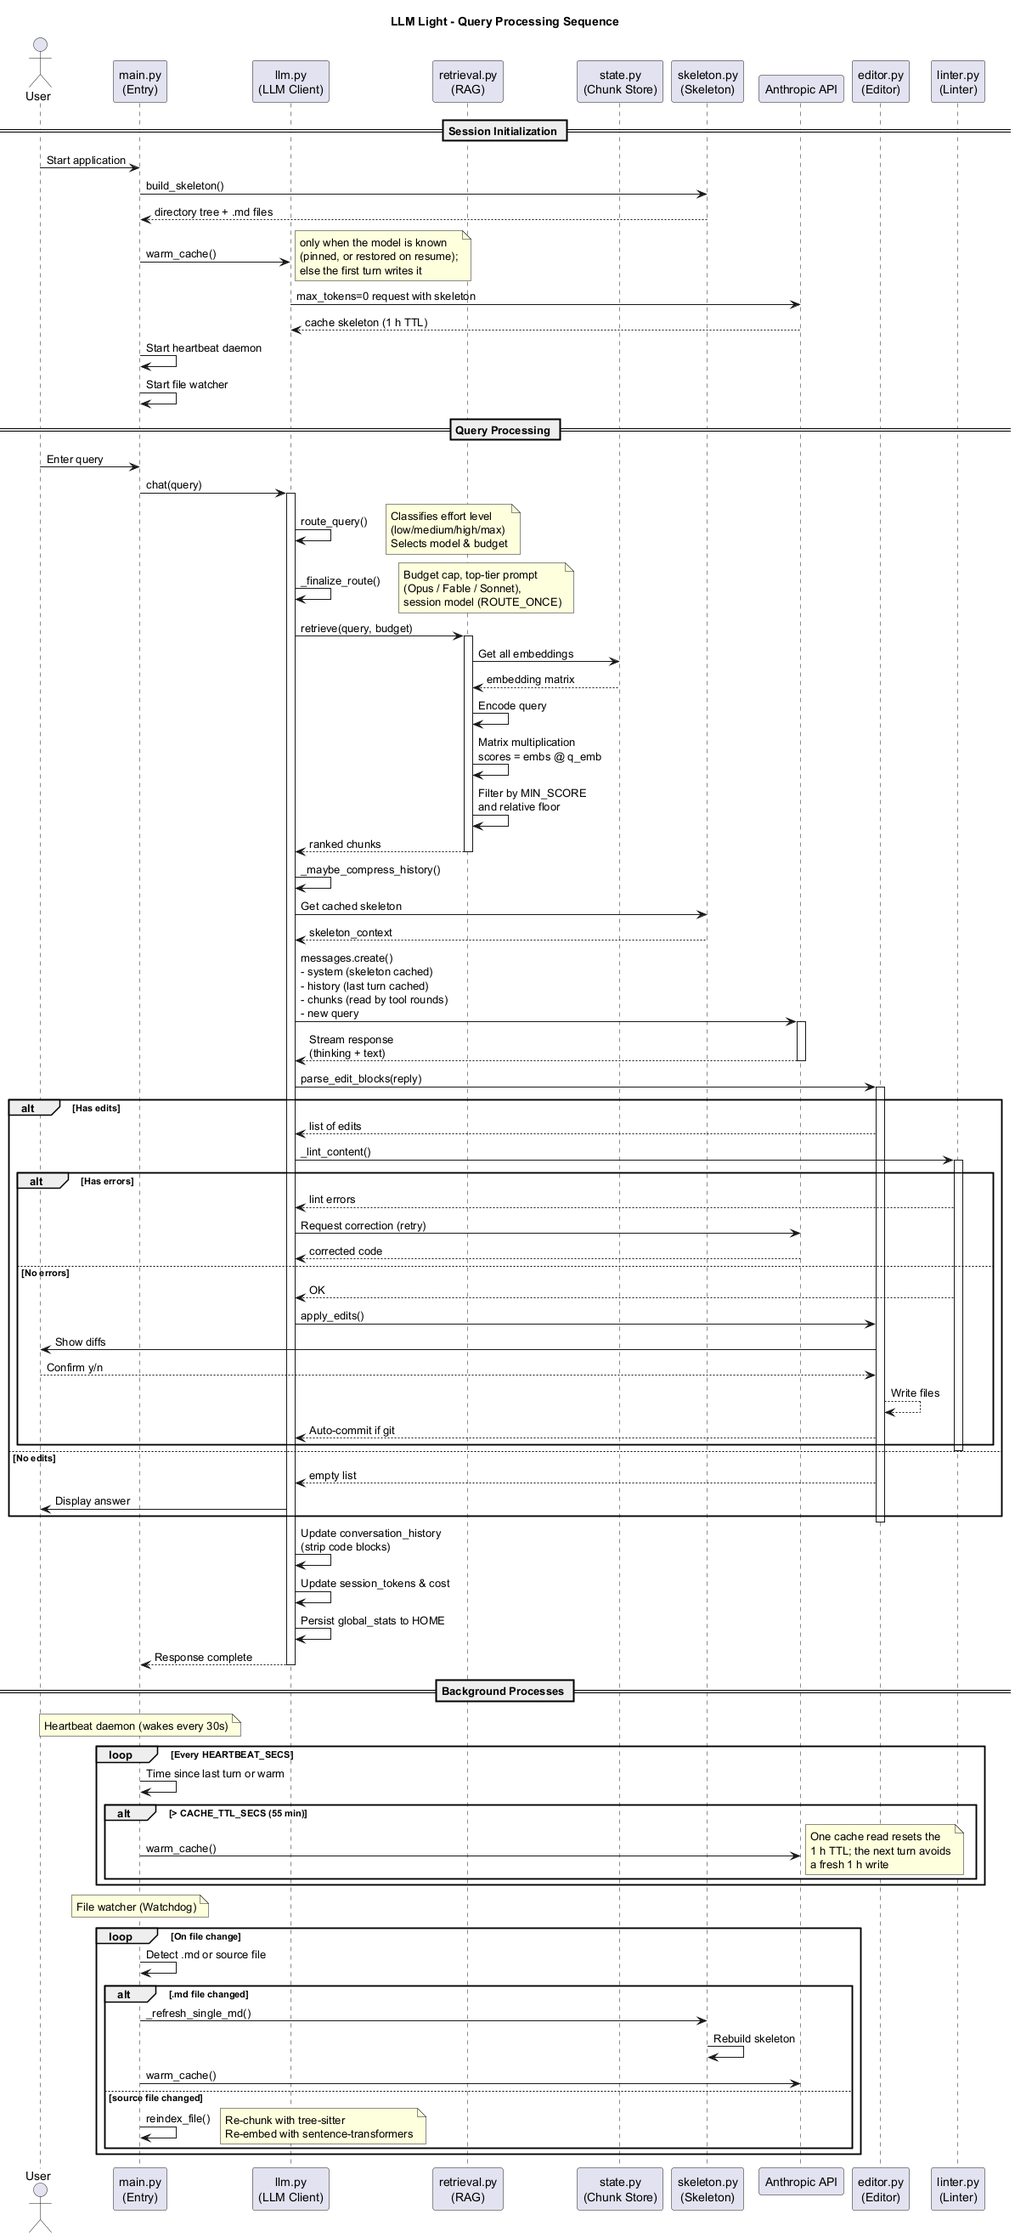
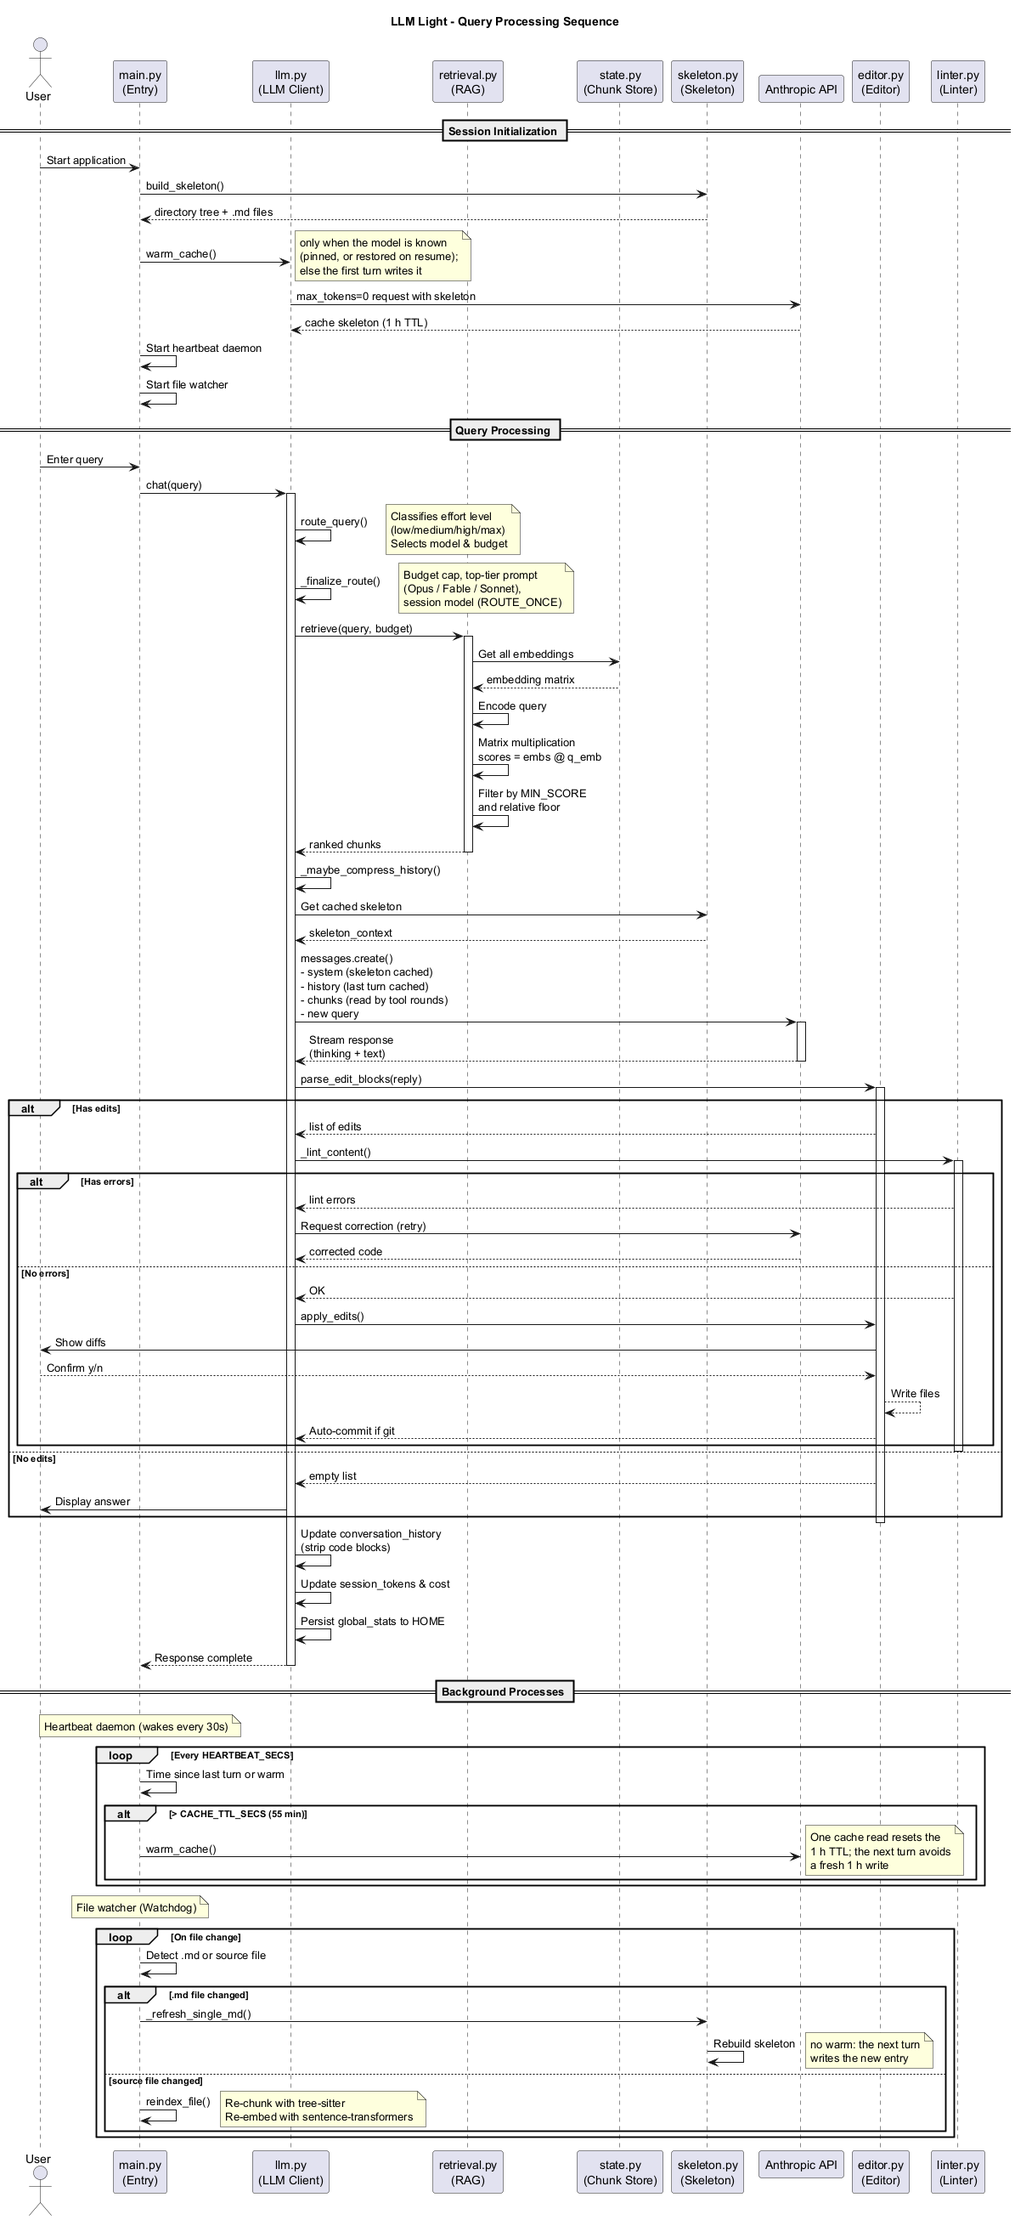
Stop warming the cache on file-watcher skeleton changes
refresh_skeleton_only() and refresh_md_file() called warm_cache() after
every added, deleted or renamed file and every .md change. That warm is
never cheaper than leaving the write to the next turn: warm then turn is
one 1-hour write plus a read, the turn alone is the write. Each further
change before that turn was another full 1-hour write of the 16.8K-token
prefix, and a change that leaves the skeleton text as it was (an editor
saving through a rename) was a read.

Verified: TestWatcherSendsNoWarm failed first (one request per refresh),
also when run after TestHeartbeatWarmsCache, whose leaked mock (#139)
would otherwise hide it, and passes now.
benchmark_cache_warming.py gains --changes N: with 3 changes between two
questions prefix cost is -50% on Sonnet ($0.2711 to $0.1347) and Opus
($0.5423 to $0.2695), with 1 change -1%, and no scenario costs more. The
trade is that the turn after a change waits for the prefill.

test_background_cache_warms_are_quiet pinned quiet warms on these paths;
it now pins that they send none. Quiet heartbeat warms stay covered by
TestHeartbeatWarmsCache.

Docs: query-flow (text and diagram, re-rendered), routing, BENCHMARKS
section 2d, TOKEN-SAVINGS.

diff --git a/tests/benchmarks/benchmark_cache_warming.py b/tests/benchmarks/benchmark_cache_warming.py
@@ -12,8 +12,10 @@ warm that a turn never reads shows up as extra cost, and an entry the heartbeat
 let expire shows up as a turn that writes again.
 
 Scenario per row: start the session (startup warm), ask one question on the
-opening model at minute 1, stay idle for --idle hours with the heartbeat
-running, then ask a second question on the same model. Rows:
+opening model at minute 1, let the file watcher rebuild the skeleton
+--changes times (a file added, deleted or renamed; each is a new prefix), stay
+idle for --idle hours with the heartbeat running, then ask a second question on
+the same model. Rows:
 
   routed, opens on <model>   ROUTE_ONCE session, first question routes there
   pinned <model>             --model pins it; no routing
@@ -24,6 +26,7 @@ cost model of the warming policy, not a live measurement.
 
     python tests/benchmarks/benchmark_cache_warming.py
     python tests/benchmarks/benchmark_cache_warming.py --idle 8
+    python tests/benchmarks/benchmark_cache_warming.py --idle 0 --changes 3
 
 Not collected by pytest. Run from the repo root. No API key, no network.
 """
@@ -85,11 +88,12 @@ class FakeCache:
 
     def use(self, model, kind):
         p = config.MODEL_PRICES[model]
-        alive = model in self.used and self.clock.now - self.used[model] < TTL
+        key = (model, state.skeleton_context)   # a changed skeleton is a new prefix
+        alive = key in self.used and self.clock.now - self.used[key] < TTL
         rate = p["read"] if alive else p["write_1h"]
         self.cost[kind] += self.prefix * rate / 1e6
         self.calls[kind] += 1
-        self.used[model] = self.clock.now
+        self.used[key] = self.clock.now
 
     def create(self, **kwargs):           # client.messages.create, for warms
         self.use(kwargs["model"], "warm")
@@ -98,19 +102,23 @@ class FakeCache:
             cache_read_input_tokens=0, cache_creation={}))
 
 
-def run(opener, pinned, idle_hours, prefix):
+def run(opener, pinned, idle_hours, prefix, changes=0):
     clock = Clock()
     cache = FakeCache(clock, prefix)
     client = SimpleNamespace(messages=SimpleNamespace(create=cache.create))
-    saved = (state.stop_event, state.last_interaction, state.session_model, state.pinned_model)
+    saved = (state.stop_event, state.last_interaction, state.session_model, state.pinned_model,
+             state.skeleton_context)
+    trees = iter(f"skeleton v{i}" for i in range(1, changes + 1))
     try:
+        state.skeleton_context = "skeleton v0"
         state.stop_event = clock
         state.session_model, state.pinned_model = None, pinned
         with patch("time.time", clock.time), \
              patch.object(claude, "client", client), \
              patch.object(claude, "_accumulate_usage", lambda *a, **k: None), \
              patch.object(claude, "calculate_cost", lambda *a, **k: 0.0), \
-             patch("llm_light.config.ROUTE_ONCE", True):
+             patch("llm_light.config.ROUTE_ONCE", True), \
+             patch.object(llm, "_refresh_tree_only", lambda: next(trees)):
             state.last_interaction = clock.now
             llm.warm_cache(quiet=True)                    # startup, as full_refresh()
             for turn in range(2):
@@ -121,26 +129,32 @@ def run(opener, pinned, idle_hours, prefix):
                 cache.use(model, "turn")
                 state.last_interaction = clock.now
                 if turn == 0:
+                    for _ in range(changes):              # the file watcher, between questions
+                        clock.now += 5
+                        llm.refresh_skeleton_only()
                     clock.end = clock.now + idle_hours * 3600
                     main.heartbeat()
     finally:
-        state.stop_event, state.last_interaction, state.session_model, state.pinned_model = saved
+        (state.stop_event, state.last_interaction, state.session_model, state.pinned_model,
+         state.skeleton_context) = saved
     return cache
 
 
 def main_():
     ap = argparse.ArgumentParser(description=__doc__, formatter_class=argparse.RawDescriptionHelpFormatter)
     ap.add_argument("--idle", type=float, default=1.0, help="idle hours between the two questions (default 1)")
+    ap.add_argument("--changes", type=int, default=0,
+                    help="skeleton changes (files added, deleted or renamed) between the questions (default 0)")
     args = ap.parse_args()
     prefix = prefix_tokens()
-    print(f"prefix {prefix:,} tokens; idle {args.idle:g} h between two questions; "
+    print(f"prefix {prefix:,} tokens; idle {args.idle:g} h and {args.changes} skeleton changes between two questions; "
           f"heartbeat every {config.HEARTBEAT_SECS} s, warm after {config.CACHE_TTL_SECS} s")
     print(f"  {'session':28} {'warms':>6} {'warm $':>9} {'turn $':>9} {'total $':>9}")
     rows = [(f"routed, opens on {m.split('-')[1]}", m, None)
             for m in (config.MODEL_HAIKU, config.MODEL_SONNET, config.MODEL_OPUS)]
     rows += [(f"pinned {m.split('-')[1]}", None, m) for m in (config.MODEL_HAIKU, config.MODEL_OPUS)]
     for label, opener, pinned in rows:
-        c = run(opener, pinned, args.idle, prefix)
+        c = run(opener, pinned, args.idle, prefix, args.changes)
         total = c.cost["warm"] + c.cost["turn"]
         print(f"  {label:28} {c.calls['warm']:>6} {c.cost['warm']:>9.4f} {c.cost['turn']:>9.4f} {total:>9.4f}")
 

diff --git a/tests/unit/test_cache_warming.py b/tests/unit/test_cache_warming.py
@@ -215,5 +215,41 @@ class TestLintRetryKeepsTheCache(unittest.TestCase):
         self.assertLessEqual(len(_breakpoints(retry)), 3)
 
 
+class TestWatcherSendsNoWarm(unittest.TestCase):
+    """A skeleton change from the file watcher rebuilds the skeleton and sends
+    nothing. A warm there is never cheaper than letting the next turn write the
+    entry: warm-then-turn costs one 1-hour write plus a read, turn alone costs
+    the write. Every further change before that turn (a new file, an editor's
+    rename-on-save, a deleted temp file) was another full 1-hour write."""
+
+    def setUp(self):
+        self._saved = (state.skeleton_context, state.session_model)
+        state.session_model = config.MODEL_SONNET   # a model a warm would target
+
+    def tearDown(self):
+        state.skeleton_context, state.session_model = self._saved
+
+    def _requests(self, refresh):
+        # Through llm_light's wrappers, whose _sync_bindings() puts the real
+        # warm_cache back into llm (see TestWarmModel._warmed_models).
+        resp = MagicMock()
+        resp.usage = _usage()
+        with patch("llm_light.providers.claude.client.messages.create", return_value=resp) as create, \
+             patch.object(llm, "_refresh_tree_only", return_value="tree v2"), \
+             patch.object(llm, "_refresh_single_md", return_value=True), \
+             patch.object(llm, "_assemble_skeleton", return_value="skeleton v2"):
+            refresh()
+        return create.call_count
+
+    def test_a_new_or_deleted_file_sends_no_request(self):
+        self.assertEqual(self._requests(llm_light.refresh_skeleton_only), 0)
+        self.assertEqual(state.skeleton_context, "tree v2")
+
+    def test_a_changed_md_file_sends_no_request(self):
+        with patch.object(llm, "notify"):
+            self.assertEqual(self._requests(lambda: llm_light.refresh_md_file("README.md")), 0)
+        self.assertEqual(state.skeleton_context, "skeleton v2")
+
+
 if __name__ == "__main__":
     unittest.main()

diff --git a/tests/unit/test_indexer.py b/tests/unit/test_indexer.py
@@ -426,16 +426,18 @@ class TestBackgroundNotices(unittest.TestCase):
             self.assertIn(os.path.basename(os.getcwd())[:10], narrow)
             self.assertNotIn("alt+ent", narrow.replace("alt+enter new line", ""))  # never cut mid-hint
 
-    def test_background_cache_warms_are_quiet(self):
-        print("\n  ▶ TestBackgroundNotices.test_background_cache_warms_are_quiet")
+    def test_watcher_refreshes_send_no_warm(self):
+        print("\n  ▶ TestBackgroundNotices.test_watcher_refreshes_send_no_warm")
+        # They used to warm (quietly); the next turn writes the entry instead.
         from llm_light import llm
         with patch.object(llm, "warm_cache") as warm, \
+             patch.object(llm, "notify"), \
              patch.object(llm, "_refresh_tree_only", return_value="tree"), \
              patch.object(llm, "_refresh_single_md", return_value=True), \
              patch.object(llm, "_assemble_skeleton", return_value="sk"):
             llm.refresh_skeleton_only()
             llm.refresh_md_file("README.md")
-        self.assertEqual([c.kwargs.get("quiet") for c in warm.call_args_list], [True, True])
+        warm.assert_not_called()
 
 
 class TestCacheFormat(unittest.TestCase):

diff --git a/llm_light/llm.py b/llm_light/llm.py
@@ -635,15 +635,16 @@ def full_refresh(quiet=False):
                 warm_cache(quiet=True)
 
 # Both run on the file watcher's thread: quiet, so nothing prints into a
-# streaming reply or over the prompt.
+# streaming reply or over the prompt. Neither warms the cache: the next turn
+# writes the new skeleton's entry anyway, so a warm here only adds a read, and
+# each further change before that turn (a new file, an editor's rename on
+# save) was another full 1-hour write (benchmark_cache_warming.py --changes).
 def refresh_skeleton_only():
     _apply_skeleton(_refresh_tree_only())
-    warm_cache(quiet=True)
 
 def refresh_md_file(path_str: str):
     if _refresh_single_md(path_str):
         _apply_skeleton(_assemble_skeleton())
-        warm_cache(quiet=True)
         notify(f"{path_str} changed; system prompt rebuilt")
 
 

diff --git a/docs/architecture/routing.md b/docs/architecture/routing.md
@@ -46,7 +46,7 @@ Cost is estimated at the tier model's rates: `(retrieval_budget + 1500) / 1M × 
 
 **The model is routed once per session by default** (next paragraph). The cache is scoped per model, so a switch writes the target model's cache. Pinning a session to its strongest model so far was simulated with `tests/benchmarks/benchmark_session_cache.py` and rejected: 33 of the 43 repo questions route to Haiku, whose output costs a twentieth of Sonnet's, and a session pinned to Sonnet cost 48% to 67% more. Each model's cached history prefix also stays readable for 5 minutes across switches, so switching back pays only for the turns in between. See `TOKEN-SAVINGS.md`, lever 1.
 
-**Route the model once (`ROUTE_ONCE`, on by default; `LLM_LIGHT_ROUTE_ONCE=0` routes it per turn).** `_finalize_route()` stores the first turn's model in `state.session_model` and uses it for every later turn; the effort, `max_tokens` and retrieval budget are still routed per turn, and the `/budget` cap still drops a turn to Haiku. `/clear` resets it, so the next question routes the model again. Once it is set, `warm_cache()` (skeleton changes and the heartbeat) warms it; a `--model` or `/model` pin takes precedence. Before the first question no model is known, so the startup warm sends nothing unless the model is pinned or `--continue` restored it. In the benchmark a session opening on Sonnet cost 71% more than per-turn routing, and one opening on Haiku cost 91% less by answering every later question on Haiku. A greeting as the first message therefore pins Haiku for the session, until a question routes to the top tier (next paragraph). It is the default by the developer's choice, against the cost model's mixed result; answer quality is not scored (#90).
+**Route the model once (`ROUTE_ONCE`, on by default; `LLM_LIGHT_ROUTE_ONCE=0` routes it per turn).** `_finalize_route()` stores the first turn's model in `state.session_model` and uses it for every later turn; the effort, `max_tokens` and retrieval budget are still routed per turn, and the `/budget` cap still drops a turn to Haiku. `/clear` resets it, so the next question routes the model again. Once it is set, `warm_cache()` (the startup warm on `--continue` and the heartbeat) warms it; a `--model` or `/model` pin takes precedence. Before the first question no model is known, so the startup warm sends nothing unless the model is pinned or `--continue` restored it. In the benchmark a session opening on Sonnet cost 71% more than per-turn routing, and one opening on Haiku cost 91% less by answering every later question on Haiku. A greeting as the first message therefore pins Haiku for the session, until a question routes to the top tier (next paragraph). It is the default by the developer's choice, against the cost model's mixed result; answer quality is not scored (#90).
 
 **The top tier asks first.** `route_query()` only scores the question; `_finalize_route()`, called by `chat()` and one-shot, applies the session. When a question routes to Opus, it asks: Opus 5.5, Fable 5.1, Sonnet 5.5, or Sonnet 5.5 without asking again this session. Each option shows its estimated cost for the turn. Esc picks Sonnet, and so does a run without a terminal (piped input), which prints one line saying so. Fable 5.1 is never routed to directly: it costs 2.5 times Opus 5.5 ($10 / $50 per MTok) and no repo question reaches even the Opus tier, so there is no data to place a threshold. Under `ROUTE_ONCE` the answer becomes the session model; this is the only route that can move a session to another model, and a session already on Opus or Fable is not asked again. The `/budget` cap is checked first: over it, the turn runs on Haiku without asking. Benchmarks and `/why` call `route_query()` directly, so they never pin or prompt.
 

diff --git a/docs/BENCHMARKS.md b/docs/BENCHMARKS.md
@@ -571,7 +571,10 @@ Runs the real `warm_cache()` and `heartbeat()` against a fake API client and a f
 ```bash
 python tests/benchmarks/benchmark_cache_warming.py
 python tests/benchmarks/benchmark_cache_warming.py --idle 8
+python tests/benchmarks/benchmark_cache_warming.py --idle 0 --changes 3
 ```
+
+`--changes N` has the file watcher rebuild the skeleton N times between the two questions (a file added, deleted or renamed), each a new prefix in the fake cache.
 
 ### Results (2026-11-01)
 
@@ -592,6 +595,18 @@ Prefix 16,807 tokens. Prefix cost of the whole scenario (warms plus the two ques
 | pinned Opus (`--model opus`) | 8 h | 952 | 9 | $1.9345 | $0.1681 | -91% |
 
 Three causes, all in the old code. The heartbeat measured idle time from the last turn only, so once idle passed 240 s it warmed on every 30 s tick: 112 warms in an idle hour where one read inside the 1-hour TTL is enough (a read resets the timer). The startup warm wrote Sonnet's entry before any question was routed, a $0.067 write that no turn reads when the session opens on Haiku (33 of the 43 repo questions) or Opus. And `warm()` ignored the `--model` pin, so a pinned session kept Sonnet warm while its turns read Opus. No scenario costs more after the change. The one thing lost is latency: a session whose model is not pinned now pays the prefix write on its first question instead of in the background at startup. This is a cost model, not a live run.
+
+Skeleton changes between the two questions, no idle time, before and after the watcher stopped warming (`refresh_skeleton_only()` and `refresh_md_file()` used to call `warm_cache()`), prefix 16,841 tokens:
+
+| Session | Changes | Before | After | Change |
+|---|---|---|---|---|
+| routed, opens on Sonnet | 1 | $0.1364 | $0.1347 | -1% |
+| routed, opens on Opus | 1 | $0.2728 | $0.2695 | -1% |
+| routed, opens on Sonnet | 3 | $0.2711 | $0.1347 | -50% |
+| routed, opens on Opus | 3 | $0.5423 | $0.2695 | -50% |
+| pinned Opus | 3 | $0.5456 | $0.2728 | -50% |
+
+A warm on a skeleton change is never cheaper than leaving the write to the next turn: warm then turn is one 1-hour write and a read, the turn alone is the write. Each further change before the turn was another full write, and a change that leaves the skeleton text as it was (an editor saving through a rename) was a read. The trade is the same as for the startup warm: the turn after a change waits for the prefill.
 
 ---
 

diff --git a/TOKEN-SAVINGS.md b/TOKEN-SAVINGS.md
@@ -40,6 +40,7 @@ A lever ships only when its measurement shows a gain.
 | retrieval: exclude test directories for package questions | shipped | not measured offline | not measured offline | n/a | Same run, 43 questions, medium budget: identifier 15/25 to 20/25, paraphrase 8/12 to 11/12, off-topic 6/6 both, median tokens 1,901 to 1,570. Lower or equal tokens and higher recall at every budget. Questions that mention tests keep them. See docs/BENCHMARKS.md. |
 | 1. heartbeat warms once per TTL | shipped | not measured live | -73% to -96% of prefix cost over an idle hour, -91% to -95% over 8 idle hours, modelled | n/a | `benchmark_cache_warming.py`, prefix 16,807 tokens. The heartbeat warmed on every 30 s tick once idle passed 240 s (112 warms per idle hour, 111 counted by `test_cache_warming.py` before the fix); now it warms once 55 minutes after the last turn or warm. See docs/BENCHMARKS.md. |
 | 1. warm only the model turns read | shipped | not measured live | -95% opening on Haiku, -33% opening on Opus, -2% on Sonnet, per session start, modelled | n/a | Same benchmark, no idle. No warm before the model is known: the startup warm wrote Sonnet's 1-hour entry ($0.067) that a Haiku or Opus session never reads. A `--model` pin is now warmed instead of Sonnet. First-question latency on unpinned sessions is the cost. |
+| 1. no warm on a skeleton change | shipped | not measured live | -50% of prefix cost with 3 changes between questions, -1% with 1, modelled | n/a | `benchmark_cache_warming.py --changes`. The file watcher warmed after every added, deleted or renamed file and every `.md` change; the next turn writes the new entry anyway, so each warm was an extra 1-hour write (or a read when the skeleton text did not change). See docs/BENCHMARKS.md. |
 | lint retry keeps its cache breakpoints | shipped | not measured | not measured | n/a | A retry after a syntax error stripped every breakpoint, so it paid full input for the history and retrieved chunks the failed attempt had just written. Pinned by `test_cache_warming.py`; how often retries happen is not measured. |
 
 ## Decisions

diff --git a/docs/architecture/query-flow.md b/docs/architecture/query-flow.md
@@ -19,7 +19,7 @@ This sequence diagram illustrates the complete flow from user query to response,
 ### Background Processes
 
 - **Heartbeat Daemon** - Wakes every 30 seconds and warms the cache once `CACHE_TTL_SECS` (55 minutes) have passed since the last turn or warm, so one cache read per idle hour keeps the 1-hour skeleton entry alive
-- **File Watcher** - Re-indexes changed files automatically
+- **File Watcher** - Re-indexes changed files automatically and rebuilds the skeleton when a file is added, deleted or renamed or a `.md` file changes. It sends no cache warm: the next turn writes the new skeleton's entry
 
 ### Interactive Commands
 
@@ -138,7 +138,7 @@ loop On file change
   alt .md file changed
     Main -> Skeleton : _refresh_single_md()
     Skeleton -> Skeleton : Rebuild skeleton
-    Main -> API : warm_cache()
+    note right : no warm: the next turn\nwrites the new entry
   else source file changed
     Main -> Main : reindex_file()
     note right : Re-chunk with tree-sitter\nRe-embed with sentence-transformers
